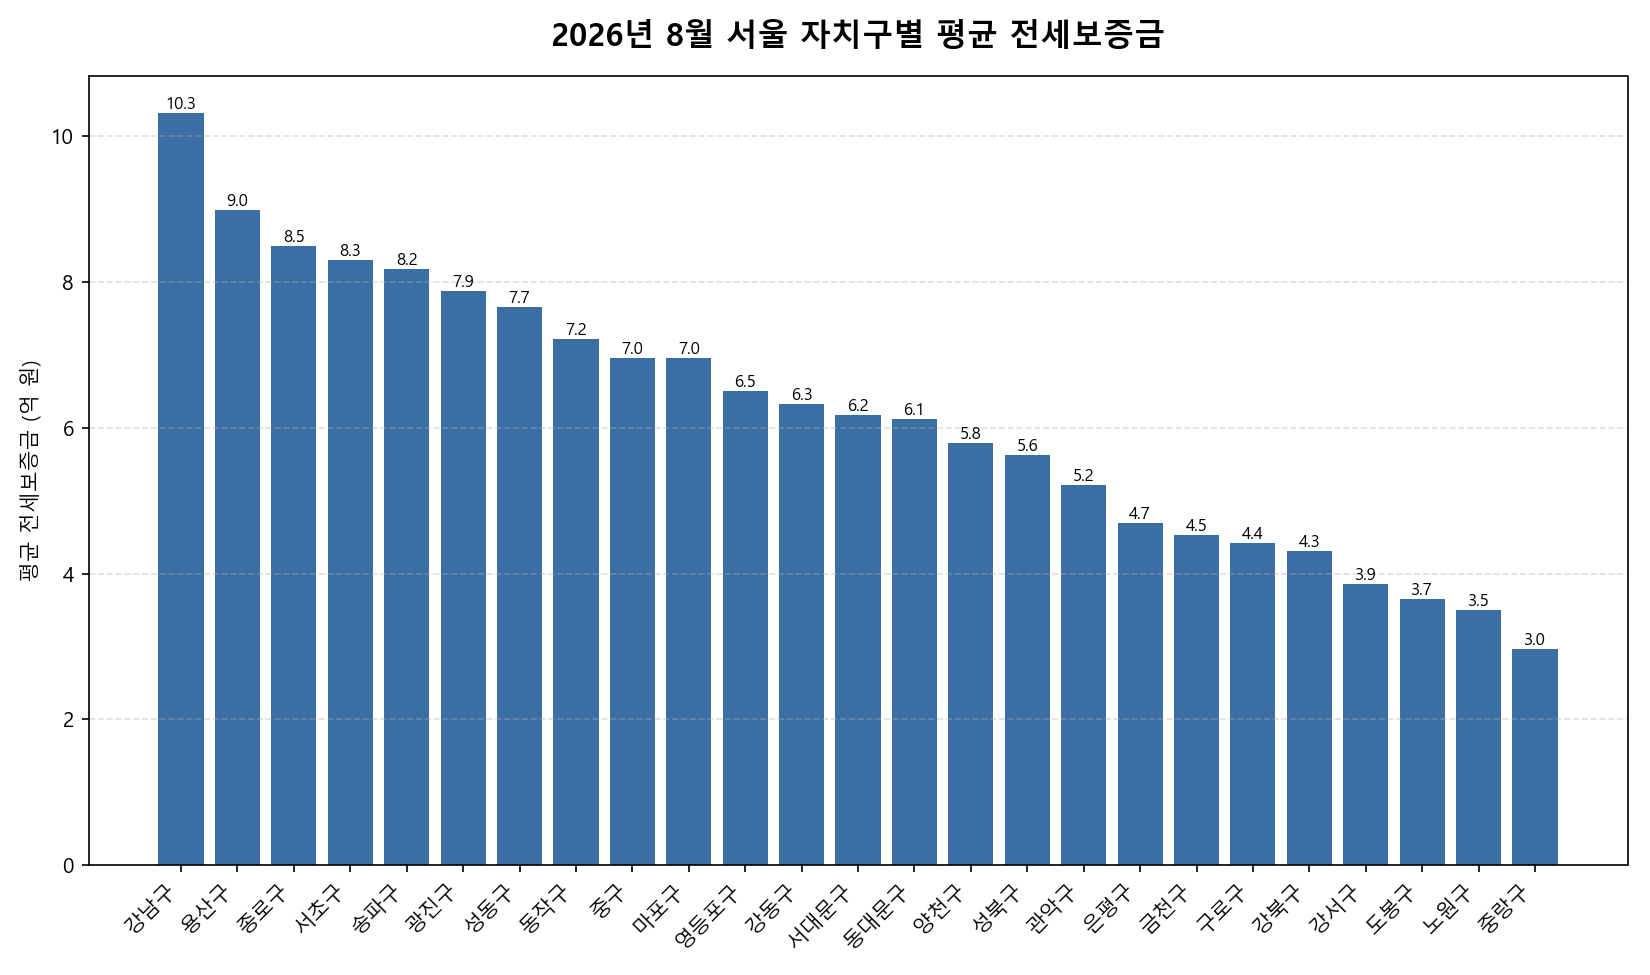
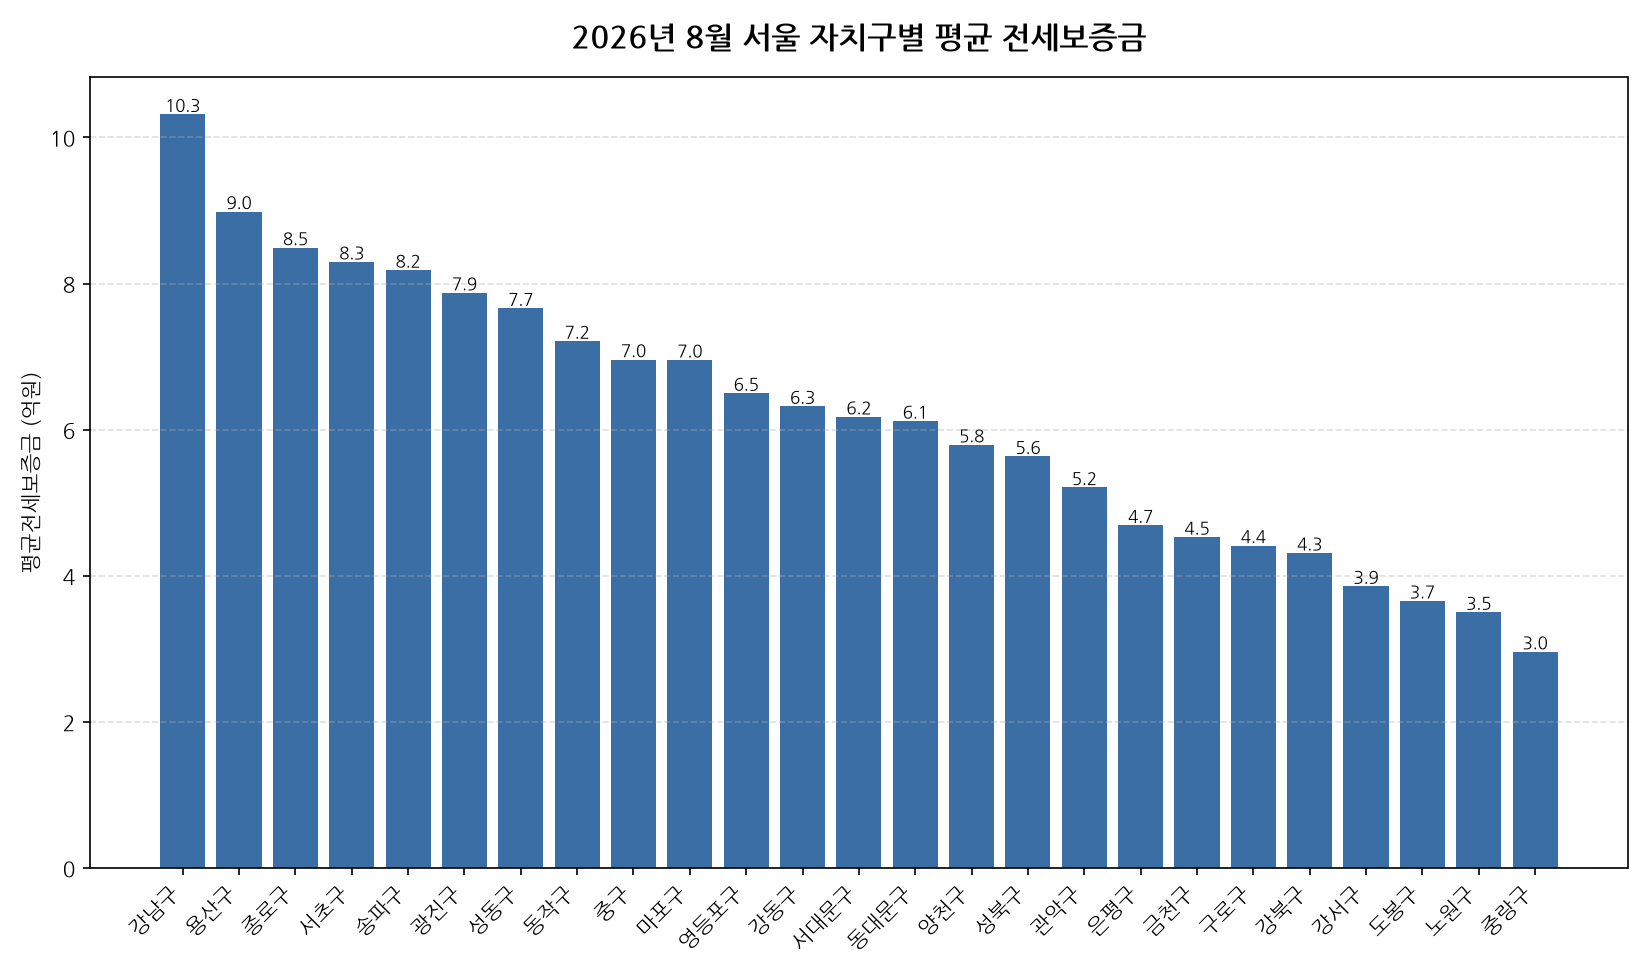
글 자동 생성: 2026년 8월 서울 아파트 전세가 동향

diff --git a/content/posts/seoul-apt-jeonse-202608/index.md b/content/posts/seoul-apt-jeonse-202608/index.md
@@ -1,27 +1,27 @@
 ---
 title: "2026년 8월 서울 아파트 전세가 동향"
-date: 2026-09-15T12:47:09+09:00
+date: 2026-09-15T17:00:38+09:00
 draft: false
-tags: ["아파트", "전월세", "실거래가"]
+tags: ["아파트", "전세", "실거래가"]
 categories: ["데이터분석"]
-summary: "2026년 8월 서울 아파트 전세 실거래 데이터 분석"
+summary: "2026년 8월 서울 아파트 순수 전세 실거래 데이터 분석"
 ---
 
 공공데이터포털의 국토교통부 아파트 전월세 실거래자료를 파이썬으로 직접 수집·분석해
-2026년 8월 서울 아파트 전세 시장 흐름을 정리했습니다.
+2026년 8월 서울 아파트 순수 전세 시장 흐름을 정리했습니다.
 
 ## 분석 방법
 
 - 데이터 출처: [국토교통부 아파트 전월세 실거래자료](https://www.data.go.kr/data/15126474/openapi.do) (공공데이터포털 Open API)
-- 분석 대상: 서울 25개 자치구, 2026년 8월 신고 기준 순수 전세 계약(월세 없는 건)
+- 분석 대상: 서울 25개 자치구, 2026년 8월 신고 기준 순수 전세 계약
 - 비교 기준월: 2026년 7월 (전월 대비 증감률 계산용)
 - 실거래 신고는 계약 후 30일 이내에 이루어지므로, 최근월 데이터는 이후 계속 소폭 갱신될 수 있습니다.
 
-## 자치구별 평균 전세보증금
+## 자치구별 평균전세보증금
 
-![2026년 8월 서울 자치구별 평균 전세보증금](chart.png)
+![2026년 8월 서울 자치구별 평균전세보증금](chart.png)
 
-| 자치구 | 평균 전세보증금(억) | 중위 전세보증금(억) | 거래건수 |
+| 자치구 | 평균전세보증금 | 중위전세보증금 | 거래건수 |
 |---|---:|---:|---:|
 | 강남구 | 10.3 | 9.5 | 521 |
 | 용산구 | 9.0 | 8.1 | 152 |
@@ -51,9 +51,9 @@ summary: "2026년 8월 서울 아파트 전세 실거래 데이터 분석"
 
 ## 이번 달 인사이트
 
-- 2026년 8월 서울 아파트 순수 전세 평균 보증금은 약 6.2억 원으로, 전월 대비 3.2% 하락했습니다.
-- 25개 자치구 중 평균 전세보증금이 가장 높은 곳은 강남구(약 10.3억 원)이었고, 가장 낮은 곳은 중랑구(약 3.0억 원)이었습니다.
-- 거래량 기준으로는 강서구에서 757건으로 가장 활발하게 전세 계약이 체결됐습니다.
+- 2026년 8월 서울 아파트 순수 전세 평균 전세보증금은 약 6.2억원으로, 전월 대비 3.2% 하락했습니다.
+- 25개 자치구 중 평균 전세보증금이 가장 높은 곳은 강남구(약 10.3억원)이었고, 가장 낮은 곳은 중랑구(약 3.0억원)이었습니다.
+- 거래량 기준으로는 강서구에서 757건으로 가장 활발하게 순수 전세 계약이 체결됐습니다.
 - 2026년 8월 서울에서 신고된 순수 전세 계약은 총 7263건입니다 (월세를 낀 반전세/월세 계약은 제외, 전용면적 기준 단순 비교).
 
 ---
